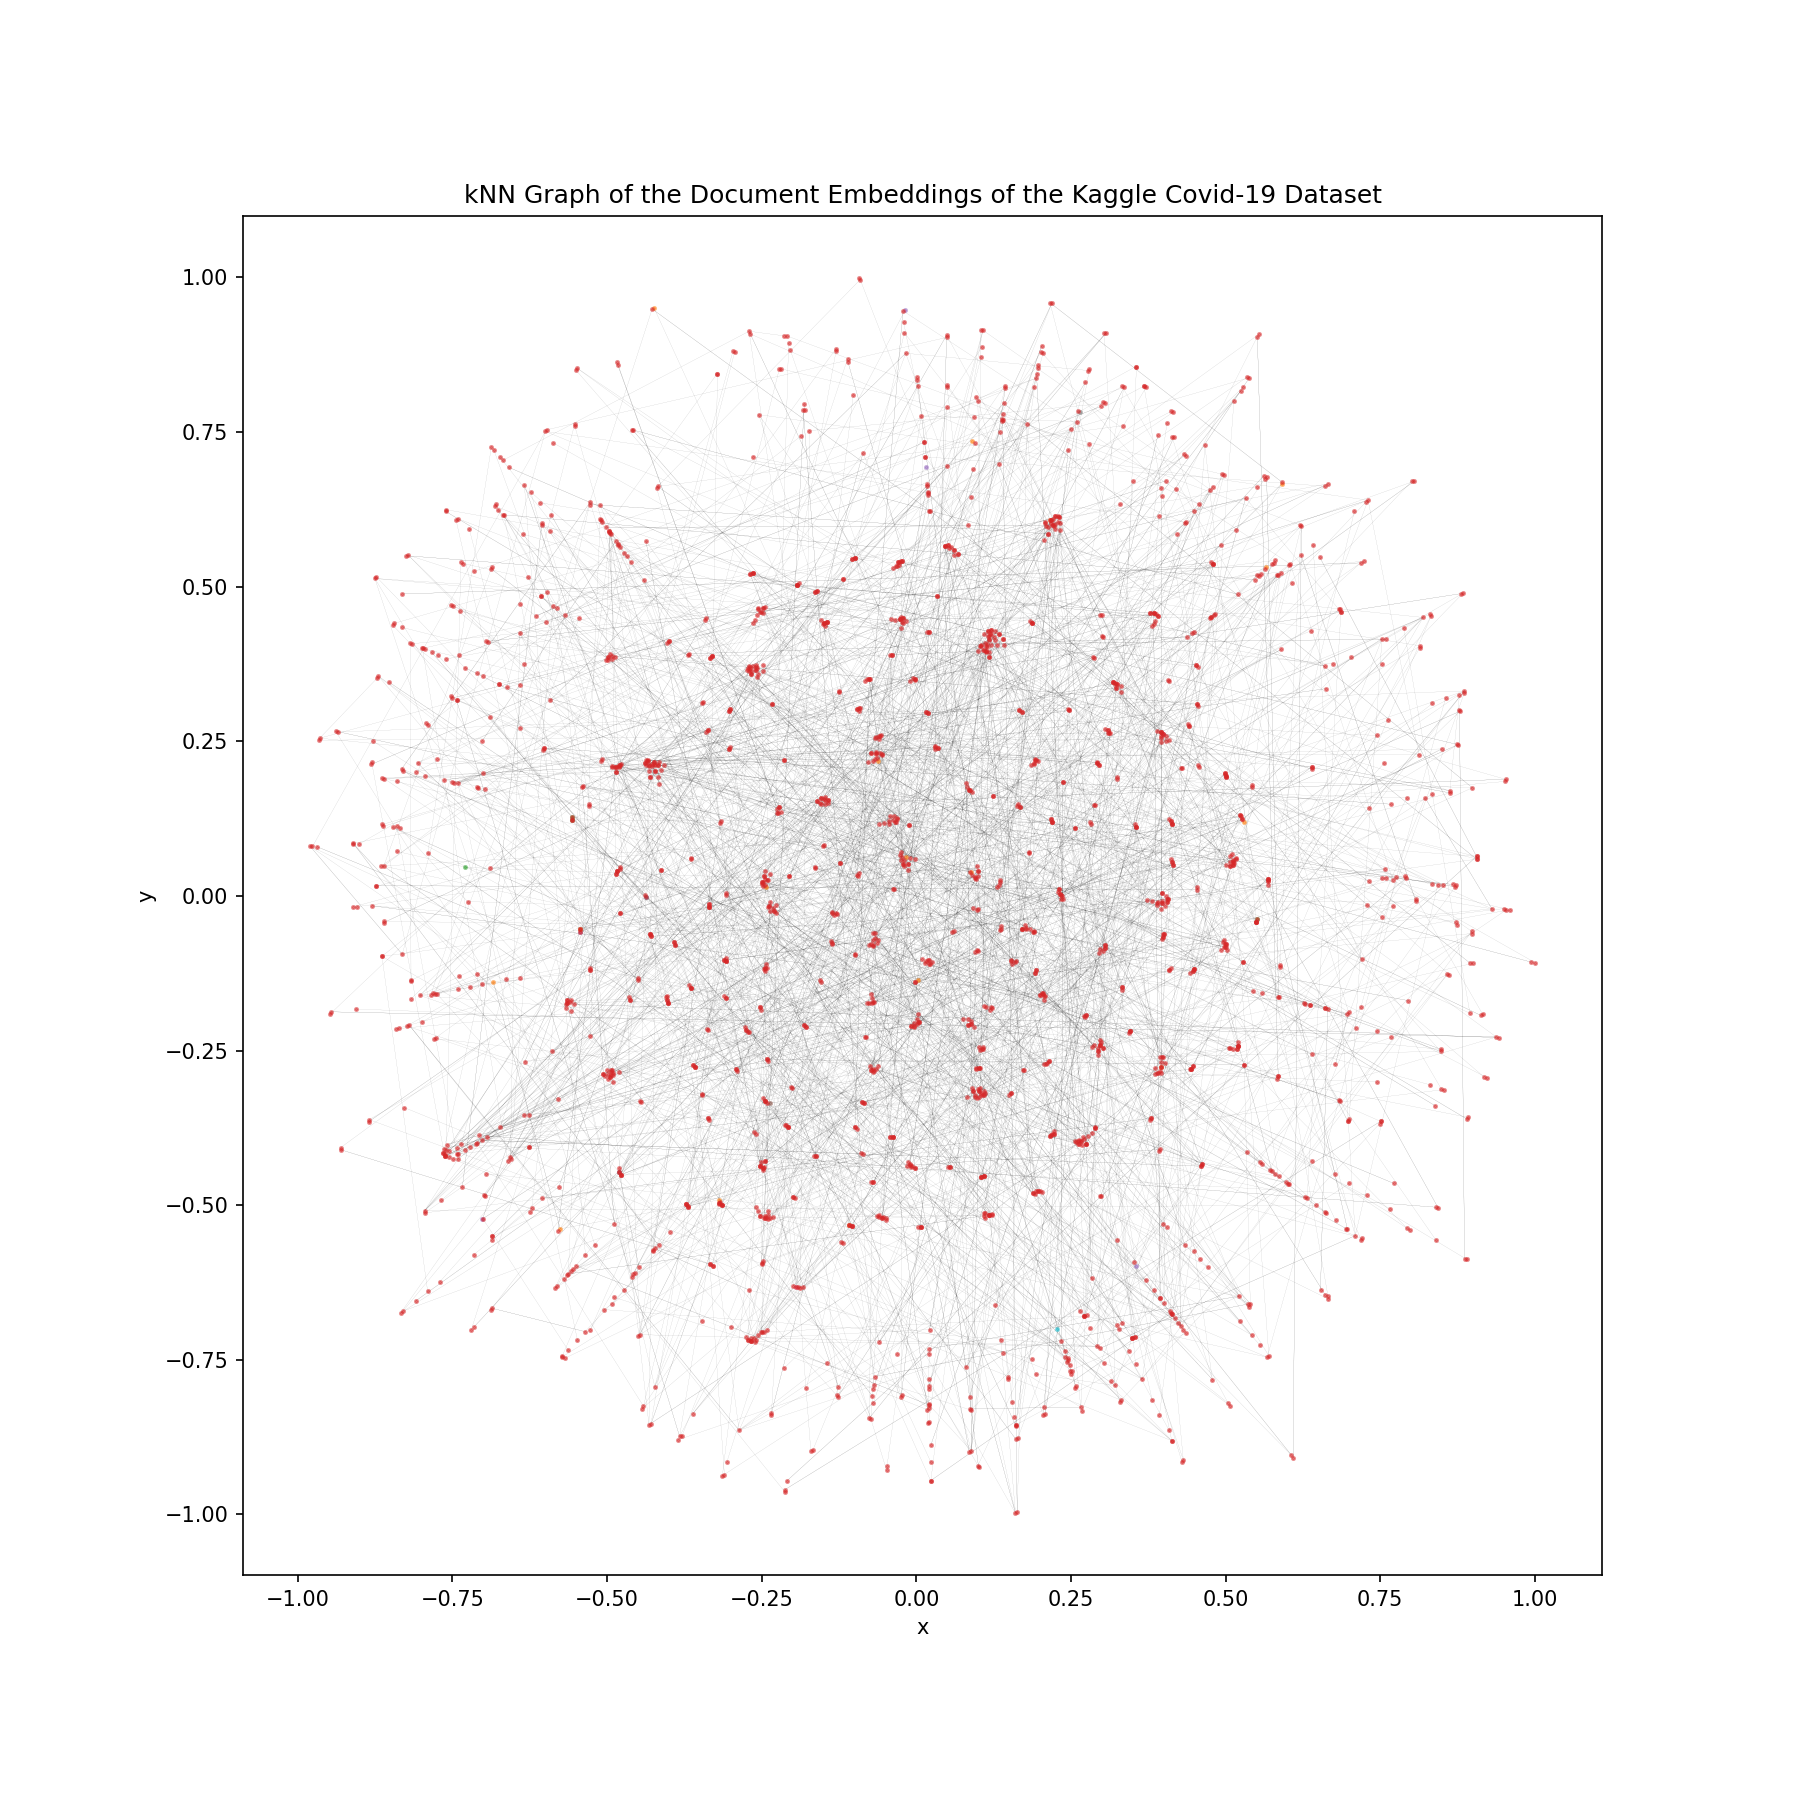
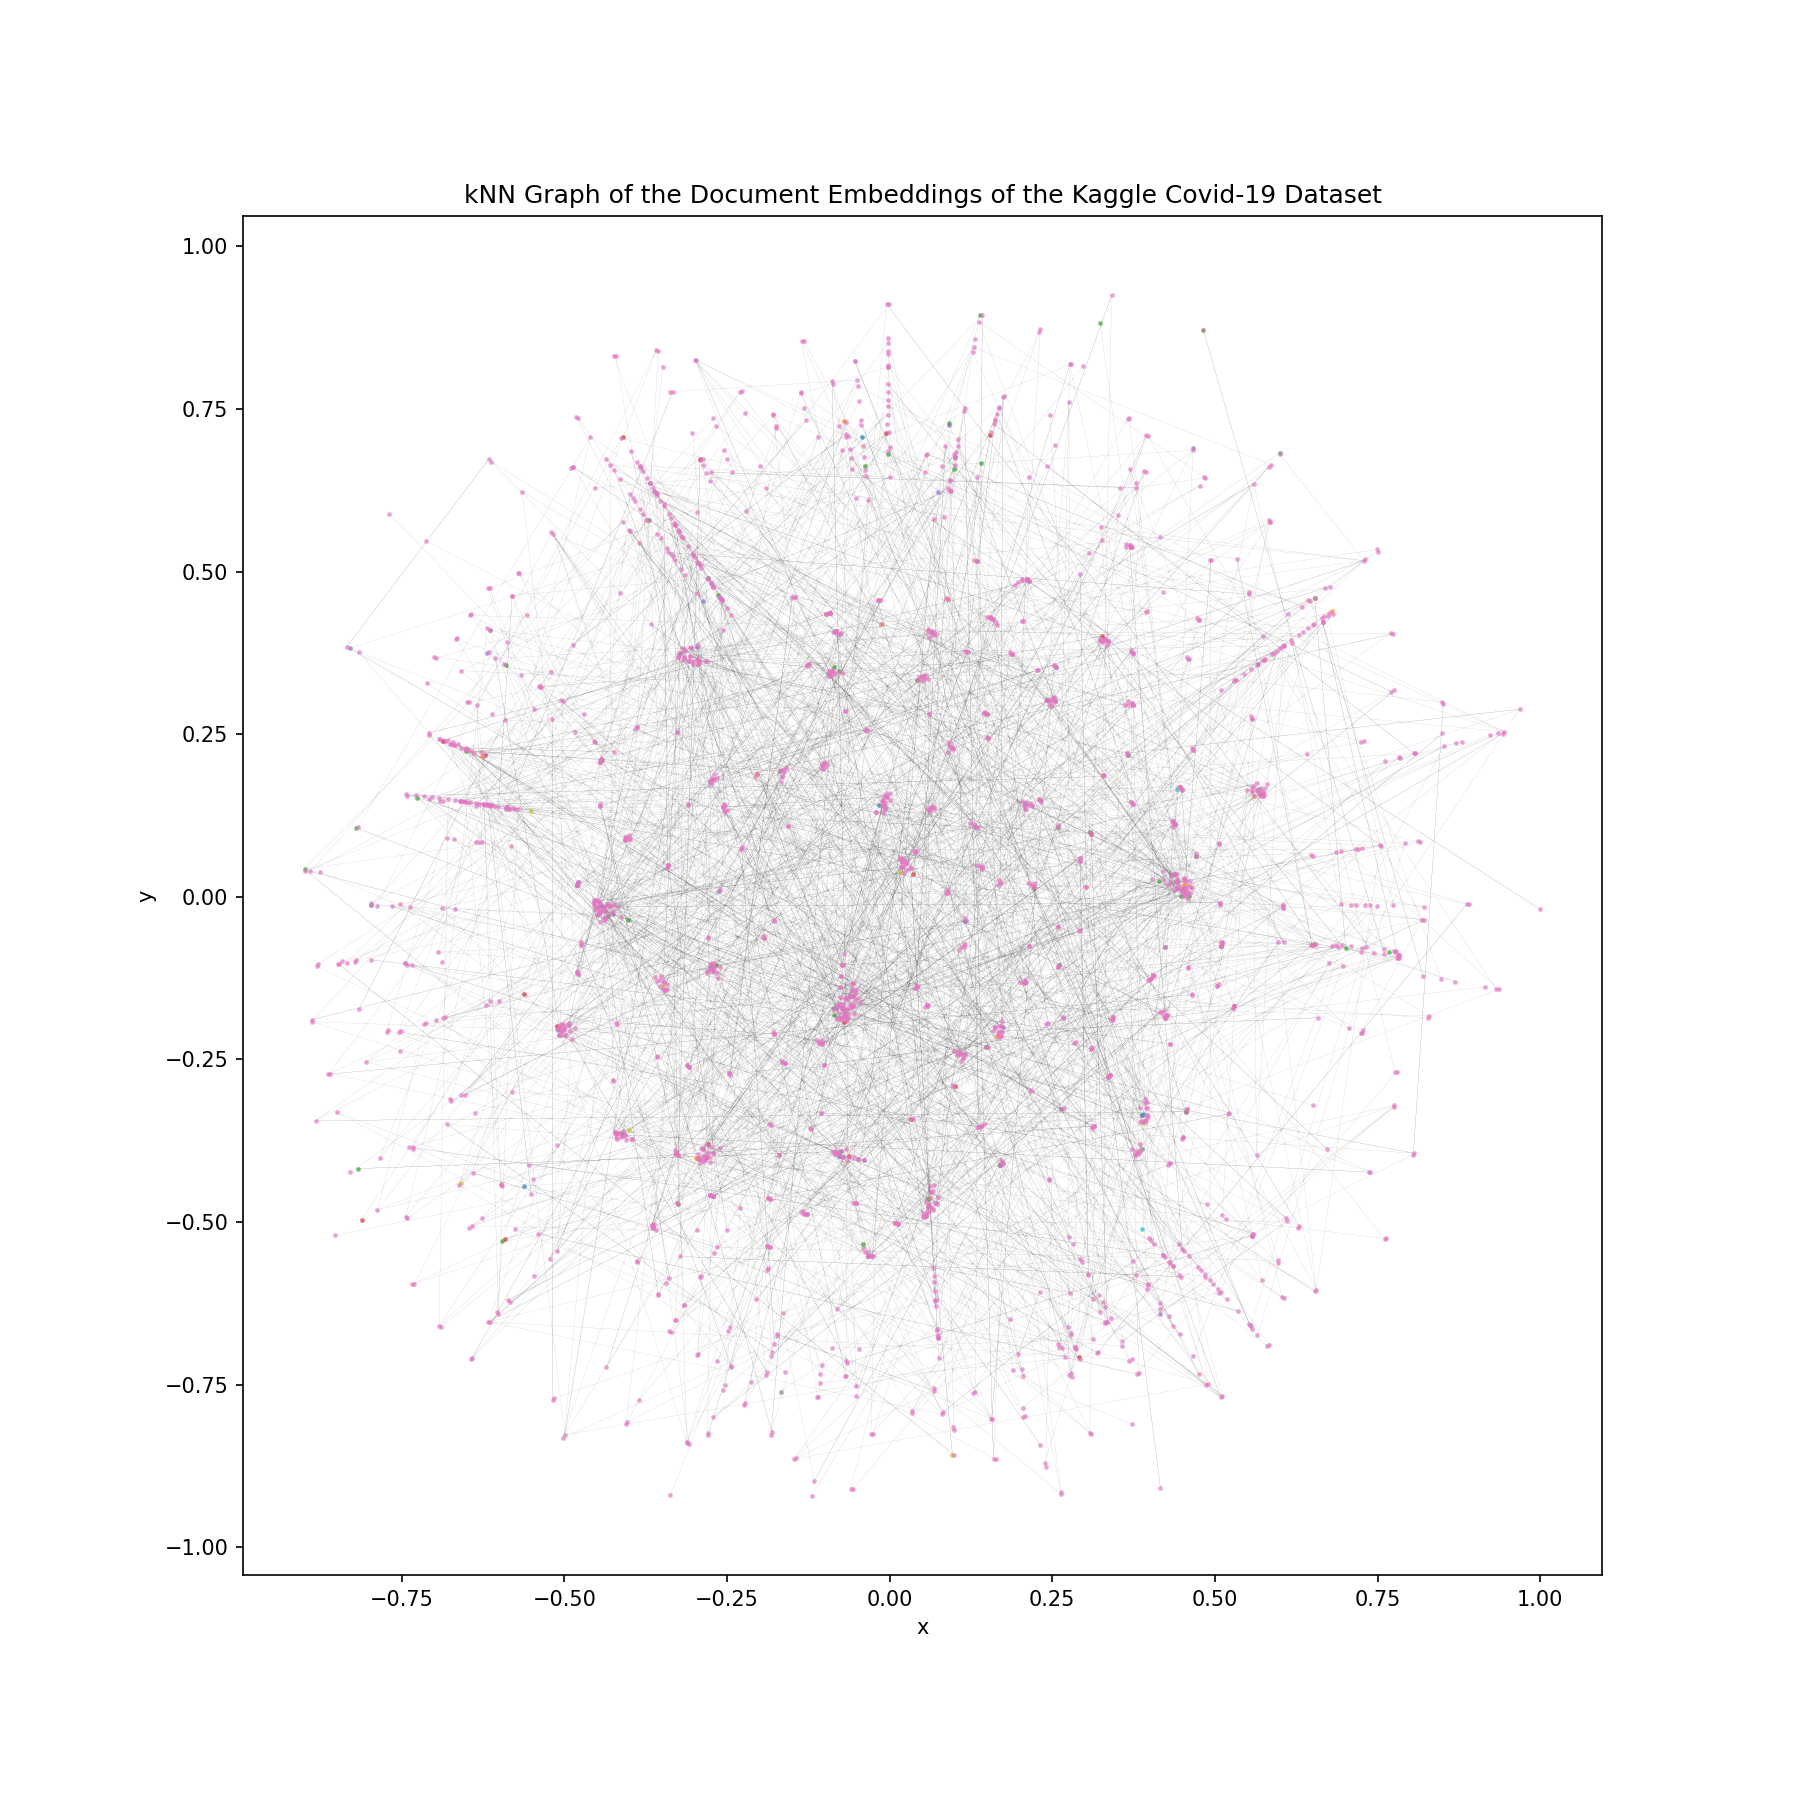
Output dim reduced doc embs as layout

diff --git a/KB/emmaa_lib.py b/KB/emmaa_lib.py
@@ -1406,22 +1406,152 @@ def generate_onto_layout(nodes, ontocats, hyperedges, plot = False, ax = None):
     return G, coors, fig, ax
 
 # %%
-# Generate a nearest-neighbour graph from a set of coordinates
-def generate_nn_graph(coors, metadata = [], model_id = -1):
+# Generate node, node-attribute, node-layout lists from a set of metadata, coordinates, labels
+def generate_nodelist(model_id = -1, node_metadata = [], node_coors = [], node_labels = []):
+
+    # Check types
+    if (len(node_metadata) > 0) & (not isinstance(node_metadata[0], dict)):
+        raise TypeError("'node_metadata' must be a list of dicts.")
+    if (len(node_coors) > 0) & ((not isinstance(node_coors, np.ndarray)) or (len(node_coors.shape) != 2)):
+        raise TypeError("'node_coors' must be a 2D numpy ndarray.")
+    if (len(node_labels) > 0) & (not isinstance(node_labels, np.ndarray)):
+        raise TypeError("'node_coors' must be a numpy ndarray.")
+
+    # Get number of nodes
+    if len(node_metadata) > 0:
+        num_nodes = len(node_metadata)
+    elif len(node_coors) > 0:
+        num_nodes = len(node_coors)
+    elif len(node_labels) > 0:
+        num_nodes = len(node_labels)
+    else:
+        num_nodes = 0
+
+    # Initialize
+    nodes = []
+    nodeLayout = []
+    nodeAtts = []
+
+
+    if num_nodes > 0:
+
+        # Initialize the node list
+        nodes = [{
+            'model_id': model_id,
+            'id': i,
+            'name': None,
+            'db_refs': {},
+            'grounded': False,
+            'edge_ids_source': [],
+            'edge_ids_target': [],
+            'out_degree': 0,
+            'in_degree:': 0,
+        } for i in range(num_nodes)]
+
+        # Add metadata if available
+        if len(node_metadata) > 0:
+
+            for node, metadata in zip(nodes, node_metadata):
+
+                node['grounded'] = True
+                node['name'] = metadata['title']
+
+                if 'doi' in metadata.keys(): 
+                    node['db_refs']['DOI'] = metadata['doi'].upper()
+
+                if 'pmcid' in metadata.keys():
+                    node['db_refs']['PMCID'] = metadata['pmcid'].upper()
+
+                if 'pubmed_id' in metadata.keys(): 
+                    node['db_refs']['PMID'] = metadata['pubmed_id'].upper()
+
+        # Generate node-layout list
+        nodeLayout = [{
+            'model_id': model_id,
+            'id': i,
+            'x': None,
+            'y': None,
+            'z': None,
+        } for i in range(num_nodes)]
+
+        # Get coordinate data if available
+        if len(node_coors) > 0:
+
+            # Map coordinate data
+            num_dim_coors = node_coors.shape[1]
+            c = {0: 'x', 1: 'y', 2: 'z'}
+            for i, node in enumerate(nodeLayout):
+                for j in range(3):
+                    if j < num_dim_coors:
+                        node[c[j]] = node_coors[i, j].item()
+                    else:
+                        node[c[j]] = 0.0
+
+        # Generate node-attribute list
+        nodeAtts = [{
+            'model_id': model_id,
+            'id': i,
+            "db_ref_priority": None, 
+            "grounded_onto": False, 
+            "ontocat_level": None, 
+            "ontocat_ids": None, 
+            "grounded_cluster": False, 
+            "cluster_level": None, 
+            "cluster_ids": None
+        } for i in range(num_nodes)]
+
+        # Get priority DB reference (DOI)
+        if len(node_metadata) > 0:
+            for i in range(num_nodes):
+                nodeAtts[i]['db_ref_priority'] = nodes[i]['db_refs']['DOI']
+
+        # Get cluster label data if available
+        if len(node_labels) > 0:
+
+            # Check axes
+            if len(node_labels.shape) < 2:
+                node_labels = node_labels[:, np.newaxis]
+            num_dim_labels = node_labels.shape[1]
+
+            for i, node in enumerate(nodeAtts):
+                
+                node['cluster_ids'] = [l.item() for l in node_labels[i, :]]
+
+                # Cluster level = last level at which the cluster label is not -1
+                j = np.flatnonzero(node_labels[i, :] == -1)
+                k = 0
+                if len(j) != 0:
+                    k = (j[0] - 1).item()
+                node['cluster_level'] = k
+
+                if k >= 0:
+                    node['grounded_cluster'] = True
+
+                
+    return nodes, nodeLayout, nodeAtts
+
+
+# %%
+# Generate a node list, edge list, and nearest-neighbour graph from a set of coordinates
+def generate_nn_graph(node_coors, node_metadata = [], model_id = -1):
 
     # Define custom Minkowski distance function to enable non-integer `p`
+    @numba.njit
     def minkowski_distance(u, v, p = 2.0):
-        return np.sum(np.abs(u - v) ** p) ** (1.0 / p)
+        return (np.abs(u - v) ** p).sum() ** (1.0 / p)
+        # return np.sum(np.abs(u - v) ** p) ** (1.0 / p)
+
+
 
     # Find k-nearest neighbours
     # knn = skl.neighbors.NearestNeighbors(n_neighbors = 1, metric = 'minkowski', p = 2.0 / 3.0)
     knn = skl.neighbors.NearestNeighbors(n_neighbors = 2, metric = lambda u, v: minkowski_distance(u, v, p = 2.0 / 3.0))
-    knn.fit(coors)
-    knn_dist, knn_ind = knn.kneighbors(coors)
+    knn.fit(node_coors)
+    knn_dist, knn_ind = knn.kneighbors(node_coors)
 
 
     # Define edge list
-    num_coors = coors.shape[0]
+    num_coors = node_coors.shape[0]
     edges = [{
         'model_id': model_id,
         'id': i,
@@ -1441,7 +1571,7 @@ def generate_nn_graph(coors, metadata = [], model_id = -1):
 
 
     # Define node list
-    num_coors = coors.shape[0]
+    num_coors = node_coors.shape[0]
     nodes = []
     nodes = [{
         'model_id': model_id,
@@ -1456,16 +1586,16 @@ def generate_nn_graph(coors, metadata = [], model_id = -1):
     } for i in range(num_coors)]
 
 
-    # Add meta-data if available
-    if len(metadata) == num_coors:
+    # Add metadata if available
+    if len(node_metadata) == num_coors:
 
         for i, node in enumerate(nodes):
             node['grounded'] = True
-            node['name'] = metadata[i]['title']
+            node['name'] = node_metadata[i]['title']
             node['db_refs'] = {
-                'DOI': metadata[i]['doi'].upper(), 
-                'PMCID': metadata[i]['pmcid'].upper(), 
-                'PMID': metadata[i]['pubmed_id'].upper()
+                'DOI': node_metadata[i]['doi'].upper(), 
+                'PMCID': node_metadata[i]['pmcid'].upper(), 
+                'PMID': node_metadata[i]['pubmed_id'].upper()
             }
 
 

diff --git a/KB/1_kaggle_embeddings.py b/KB/1_kaggle_embeddings.py
@@ -150,51 +150,18 @@ fig = ax = None
 del fig, ax
 
 # %%[markdown]
-# # Generate Node/Edge List
+# # Generate Node Lists
 
 # %%
 %%time
 
-nodes, edges, G = emlib.generate_nn_graph(coors = embs[:2000, :], metadata = docs[:2000], model_id = 0)
+nodes, nodeLayout, nodeAtts = emlib.generate_nodelist(model_id = 0, node_metadata = docs, node_coors = embs_red, node_labels = np.array(labels))
 
-# time: 1 m 3 s
+# time: 8.93 s
 
-# %%[markdown]
-# # Generate kNN layout
+# %%[markdown
+# Save node lists
 
-# %%
-%%time
-
-embs_knn, __, __, __ = emlib.generate_nx_layout(G = G, layout = 'spring', layout_atts = {'k': 0.01}, plot = False)
-
-# time: 16.5 s
-
-# %%
-with open('./dist/kaggle/embeddings_knn.pkl', 'wb') as f:
-    pickle.dump(embs_knn, f)
-
-# %%
-if False:
-    with open('./dist/kaggle/embeddings_knn.pkl', 'rb') as f:
-        embs_knn = pickle.load(f)
-
-# %%[markdown]
-# Plot result
-
-fig, ax = plt.subplots(nrows = 1, ncols = 1, figsize = (12, 12))
-__ = emlib.plot_emb(coor = np.array([v for __, v in embs_knn.items()]), labels = labels[:2000], cmap_name = 'qual', edge_list = G.edges(data = False), legend_kwargs = {}, colorbar = False, marker_size = 2.0, ax = ax, str_title = 'kNN Graph of the Document Embeddings of the Kaggle Covid-19 Dataset')
-__ = plt.setp(ax, xlabel = 'x', ylabel = 'y')
-
-fig.savefig('./figures/kaggle/embeddings_knn.png', dpi = 150)
-
-fig = ax = None
-del fig, ax
-
-
-# %%
-%%time
-
-# Save `nodes`
 preamble = {
     'model_id': '<int> unique model ID that is present in all related distribution files',
     'id': '<int> unique node ID that is referenced by other files',
@@ -209,7 +176,93 @@ preamble = {
 emlib.save_jsonl(nodes, './dist/kaggle/nodes.jsonl', preamble = preamble)
 
 
-# Save `edges`
+preamble = {
+    'model_id': '<int> unique model ID that is present in all related distribution files',
+    'id': '<int> unique node ID that is defined in `nodes.jsonl`',
+    'x': '<float> position of the node in the graph layout',
+    'y': '<float> position of the node in the graph layout',
+    'z': '<float> position of the node in the graph layout',
+}
+emlib.save_jsonl(nodeLayout, './dist/kaggle/nodeLayout.jsonl', preamble = preamble)
+
+
+preamble = {
+    'model_id': '<int> unique model ID that is present in all related distribution files',
+    'id': '<int> unique node ID that is defined in `nodes.jsonl`',
+    'db_ref_priority': '<str> database reference from `db_refs` of `nodes.jsonl`, that is used by the INDRA ontology v1.5', 
+    'grounded_onto': '<bool> whether this model node is grounded to something that exists within the ontology', 
+    'ontocat_level': '<int> the level of the most fine-grained ontology node/category to which this model node was mapped (`-1` if not mappable, `0` if root)', 
+    'ontocat_ids': '<array of int> ordered list of ontological category IDs (see `ontocats.jsonl`) to which this node is mapped (order = root-to-leaf)', 
+    'grounded_cluster': '<bool> whether this model node is grounded to any cluster', 
+    'cluster_level': '<int> the level of the most fine-grained cluster at which this model node was mapped (`-1` if not mappable, `0` if root)', 
+    'cluster_ids': '<array of int> ordered list of ontological category IDs (see `ontocats.jsonl`) to which this node is mapped (order = root-to-leaf)', 
+}
+emlib.save_jsonl(nodeAtts, './dist/kaggle/nodeAtts.jsonl', preamble = preamble)
+
+
+# %%[markdown]
+# # Generate kNN Graph
+
+# %%
+i = np.random.default_rng().integers(0, num_docs, size = 2000)
+
+# %%
+%%time
+
+nodes_knn, edges_knn, G_knn = emlib.generate_nn_graph(node_coors = embs[i, :], node_metadata = [docs[j] for j in i], model_id = 0)
+
+# time: 37.8 s
+
+# %%[markdown]
+# # Generate kNN layout
+
+# %%
+%%time
+
+embs_knn, __, __, __ = emlib.generate_nx_layout(G = G_knn, layout = 'spring', layout_atts = {'k': 0.01}, plot = False)
+# embs_knn, __, __, __ = emlib.generate_nx_layout(G = G_knn, layout = 'kamada_kawai', layout_atts = {}, plot = False)
+
+# time: 15.6 s
+
+# %%
+with open('./dist/kaggle/embeddings_knn.pkl', 'wb') as f:
+    pickle.dump(embs_knn, f)
+
+# %%
+if False:
+    with open('./dist/kaggle/embeddings_knn.pkl', 'rb') as f:
+        embs_knn = pickle.load(f)
+
+# %%[markdown]
+# Plot result
+
+fig, ax = plt.subplots(nrows = 1, ncols = 1, figsize = (12, 12))
+__ = emlib.plot_emb(coor = np.array([v for __, v in embs_knn.items()]), labels = labels[i], cmap_name = 'qual', edge_list = G_knn.edges(data = False), legend_kwargs = {}, colorbar = False, marker_size = 2.0, ax = ax, str_title = 'kNN Graph of the Document Embeddings of the Kaggle Covid-19 Dataset')
+__ = plt.setp(ax, xlabel = 'x', ylabel = 'y')
+
+fig.savefig('./figures/kaggle/embeddings_knn.png', dpi = 150)
+
+fig = ax = None
+del fig, ax
+
+
+# %%[markdown
+# Save outputs
+
+preamble = {
+    'model_id': '<int> unique model ID that is present in all related distribution files',
+    'id': '<int> unique node ID that is referenced by other files',
+    'name': '<str> unique human-interpretable name of this node (from the `title` attribute in `metadata.csv`)',
+    'db_refs': '<dict> database references of this node (`doi`, `pmcid`, `pubmed_id` attributes in `metadata.csv`)',
+    'grounded': '<bool> whether this node is grounded to any database (`True` for all)',
+    'edge_ids_source': '<list of int> ID of edges that have this node as a source',
+    'edge_ids_target': '<list of int> ID of edges that have this node as a target',
+    'out_degree': '<int> out-degree of this node',
+    'in_degree': '<int> in-degree of this node', 
+}
+emlib.save_jsonl(nodes_knn, './dist/kaggle/nodes_knn.jsonl', preamble = preamble)
+
+
 preamble = {
     'model_id': '<int> unique model ID that is present in all related distribution files',
     'id': '<int> unique edge ID that is referenced by other files',
@@ -220,9 +273,7 @@ preamble = {
     'target_id': '<int> ID of the target node (as defined in `nodes.jsonl`)',
     'tested': '<bool> whether this edge is tested (`True` for all)'
 }
-emlib.save_jsonl(edges, './dist/kaggle/edges.jsonl', preamble = preamble)
-
-# time: 
+emlib.save_jsonl(edges_knn, './dist/kaggle/edges_knn.jsonl', preamble = preamble)
 
 # %%
 
